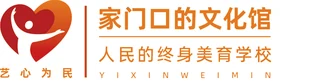
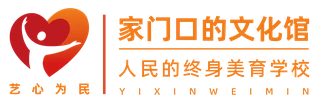
Refresh Yixin identity artwork and complete matching design notes

diff --git a/src/data/projectImages.js b/src/data/projectImages.js
@@ -1,3 +1,5 @@
+import yixin_colors_320 from '../assets/projects/yixin-colors-320.webp'
+import yixin_colors_960 from '../assets/projects/yixin-colors-960.webp'
 import shoumo_cover_320 from '../assets/projects/shoumo-cover-320.webp'
 import shoumo_cover_960 from '../assets/projects/shoumo-cover-960.webp'
 import shen_cover_320 from '../assets/projects/shen-cover-320.webp'
@@ -163,16 +165,17 @@ import kunlun_print_320 from '../assets/projects/kunlun-print-320.webp'
 import kunlun_print_960 from '../assets/projects/kunlun-print-960.webp'
 
 export const projectImages = {
+  'yixin-colors': { whiteSurface: true, caption: "标准色彩", captionEn: "Brand color palette", width: 1064, height: 515, note: "标准色彩延续主标志的红橙暖调。橙色呼应暖阳与活力，红色传递艺术的温度与人文关怀，深红强化稳重的品牌识别；通过同一色系的呼应，让社区宣传、印刷物料与空间应用保持温暖、亲和的整体感。", noteEn: "The palette extends the warm red-orange tones of the main mark. Orange suggests sunlight and vitality, red conveys warmth and care, and deep red gives the identity visual weight. Together, they connect community communications, printed materials and spatial applications.", thumb: yixin_colors_320, medium: yixin_colors_960 },
   'shoumo-cover': { caption: '守墨非遗海报效果展示', captionEn: 'Shoumo heritage poster presentation', width: 6000, height: 4000, thumb: shoumo_cover_320, medium: shoumo_cover_960 },
   'shen-cover': { caption: '《慎》系列海报效果展示', captionEn: 'Shen poster series presentation', width: 4000, height: 3000, thumb: shen_cover_320, medium: shen_cover_960 },
-  'yixin-identity': { caption: "品牌主标志", captionEn: "Primary brand identity", width: 1040, height: 388, thumb: yixin_identity_320, medium: yixin_identity_960 },
-  'yixin-construction': { caption: "标志标准制图", captionEn: "Logo construction grid", width: 1326, height: 640, thumb: yixin_construction_320, medium: yixin_construction_960 },
-  'yixin-inspiration': { caption: "双心、人形与暖阳意象", captionEn: "Hearts, human gesture and warm light", width: 1416, height: 369, thumb: yixin_inspiration_320, medium: yixin_inspiration_960 },
-  'yixin-secondary': { caption: "辅助标志", captionEn: "Secondary identity", width: 960, height: 253, thumb: yixin_secondary_320, medium: yixin_secondary_960 },
-  'yixin-lockups': { caption: "辅助标志与反白应用", captionEn: "Secondary and reversed identities", width: 961, height: 450, thumb: yixin_lockups_320, medium: yixin_lockups_960 },
-  'yixin-pattern-hearts': { caption: "双心连续纹样", captionEn: "Repeating heart pattern", width: 961, height: 633, thumb: yixin_pattern_hearts_320, medium: yixin_pattern_hearts_960 },
-  'yixin-pattern-geometry': { caption: "几何重构纹样", captionEn: "Geometric pattern", width: 961, height: 637, thumb: yixin_pattern_geometry_320, medium: yixin_pattern_geometry_960 },
-  'yixin-pattern-lines': { caption: "舒展曲线纹样", captionEn: "Flowing line pattern", width: 961, height: 633, thumb: yixin_pattern_lines_320, medium: yixin_pattern_lines_960 },
+  'yixin-identity': { whiteSurface: true, caption: "品牌主标志", captionEn: "Primary brand identity", width: 3508, height: 2480, note: "本标志为济南市文化馆群众文艺普及项目的品牌视觉设计，紧扣“艺心为民”理念，传递文艺服务下沉社区、直达百姓家门口的项目内涵。图形融合泉城地域意象与群众文艺特征，以亲和简约的造型呈现公益培训、文艺普及的服务职能；温润明快的色调兼顾严谨感与大众亲和力，适配社区宣传、物料印刷和新媒体传播。", noteEn: "Created for Jinan Cultural Center’s public arts education program, the mark expresses the idea of bringing arts services into local communities. A simple, approachable form connects Jinan’s local identity with public arts participation, while warm colors support a consistent presence in community communications, print and digital media.", thumb: yixin_identity_320, medium: yixin_identity_960 },
+  'yixin-construction': { whiteSurface: true, caption: "标志标准制图", captionEn: "Logo construction grid", width: 1616, height: 996, note: "以 A 为基本单位建立标准网格，统一标志图形、分隔线与中英文字的比例和位置关系。图示整体宽 26A、高 10A，图形部分宽 11.5A、右侧文字区宽 11A，为不同尺寸和应用载体中的规范使用提供依据。", noteEn: "A modular grid based on unit A defines the proportions and positions of the symbol, divider and bilingual lettering. The diagram specifies an overall width of 26A and height of 10A, with an 11.5A symbol area and an 11A lettering area, supporting consistent reproduction at different scales.", thumb: yixin_construction_320, medium: yixin_construction_960 },
+  'yixin-inspiration': { whiteSurface: true, caption: "双心、人形与暖阳意象", captionEn: "Hearts, human gesture and warm light", width: 2117, height: 811, note: "双心意象：红橙渐变的爱心呼应“心”字，象征艺术的温度与人文关怀，传递温暖、包容的情感基调。\n\n舒展人形：简约的白色人形融入爱心轮廓，舒展的手臂代表“艺”的表达，体现艺术服务大众、贴近人民的理念。\n\n土地与暖阳：红橙渐变取自土地与暖阳，根植泉城本土，呼应公共文化普惠大众、艺术贴近人民、文化浸润人心的项目主旨。", noteEn: "Hearts: the red-orange heart forms echo the idea of care, expressing warmth, inclusiveness and the human value of the arts.\n\nHuman gesture: a simple white figure is integrated into the heart. Its open arms suggest artistic expression and an arts service that welcomes everyone.\n\nLand and sunlight: warm red-orange tones draw on the land and sun, connecting the identity to Jinan and the program’s commitment to accessible public culture.", thumb: yixin_inspiration_320, medium: yixin_inspiration_960 },
+  'yixin-secondary': { whiteSurface: true, caption: "辅助标志", captionEn: "Secondary identity", width: 2679, height: 873, note: "辅助标志保留主标志中的爱心与人形核心元素，简化线条，延续红橙暖调，并加强“家门口的文化馆”“人民的终身美育学校”等文字信息，丰富视觉系统，强化“艺心为民”文化惠民的品牌内涵。", noteEn: "The secondary mark retains the heart and human figure, simplifies the lines and continues the warm palette. The expanded lettering emphasizes a cultural center close to home and lifelong arts education, strengthening the program’s public-service identity.", thumb: yixin_secondary_320, medium: yixin_secondary_960 },
+  'yixin-lockups': { whiteSurface: true, caption: "辅助标志与反白应用", captionEn: "Secondary and reversed identities", width: 1047, height: 535, note: "围绕“艺心为民”与“家门口的文化馆”两种文字组合，分别呈现橙色与深色背景上的反白应用。核心图形保持红橙暖调，文字和分隔线以白色形成清晰对比，使不同背景中的标志延续统一、亲和的识别。", noteEn: "Two lettering arrangements are shown on orange and dark backgrounds. The core symbol keeps its warm red-orange colors, while white lettering and dividers maintain clear contrast and a consistent, approachable identity.", thumb: yixin_lockups_320, medium: yixin_lockups_960 },
+  'yixin-pattern-hearts': { caption: "双心连续纹样", captionEn: "Repeating heart pattern", width: 961, height: 633, note: "提取主标志的双心元素，以规整图案重复阵列，延续红橙配色，象征文化普惠、万众同心；可延展至展板、文创与宣传物料。", noteEn: "A regular repeat of the paired-heart motif continues the red-orange palette, suggesting shared participation and cultural access. It extends to display boards, merchandise and communications.", thumb: yixin_pattern_hearts_320, medium: yixin_pattern_hearts_960 },
+  'yixin-pattern-geometry': { caption: "几何重构纹样", captionEn: "Geometric pattern", width: 961, height: 637, note: "将爱心拆解为圆形与半圆等几何形态，解构重组并保留品牌色彩体系，在延续核心识别的同时增添秩序感与现代感。", noteEn: "Hearts are deconstructed into circles and semicircles, then recomposed within the brand palette. The pattern preserves the core identity while introducing order and a contemporary rhythm.", thumb: yixin_pattern_geometry_320, medium: yixin_pattern_geometry_960 },
+  'yixin-pattern-lines': { caption: "舒展曲线纹样", captionEn: "Flowing line pattern", width: 961, height: 633, note: "采用柔和曲线模拟舒展开放的姿态，呼应主标识中的人形，寓意文化包容、向外延伸，为不同载体提供更轻盈、灵活的图形语言。", noteEn: "Soft curves suggest an open, expansive gesture and echo the figure in the main mark. They express cultural inclusiveness and create a lighter, flexible graphic language for different applications.", thumb: yixin_pattern_lines_320, medium: yixin_pattern_lines_960 },
   'yixin-cap': { caption: "棒球帽设计", captionEn: "Baseball cap", width: 1115, height: 697, note: "32 支斜纹涤棉 · 18 × 25 × 11.5 cm", noteEn: "Cotton-polyester twill · 18 × 25 × 11.5 cm", thumb: yixin_cap_320, medium: yixin_cap_960 },
   'yixin-badge': { caption: "烤漆胸章", captionEn: "Enamel badge", width: 1110, height: 697, note: "锌合金 · 5 × 5 × 0.5 cm", noteEn: "Zinc alloy · 5 × 5 × 0.5 cm", thumb: yixin_badge_320, medium: yixin_badge_960 },
   'yixin-polo': { caption: "POLO 文化衫", captionEn: "Polo shirt", width: 1115, height: 691, note: "32 支 65/35 涤棉斜纹面料，260 g/㎡ · 成人均码", noteEn: "65/35 cotton-polyester twill, 260 g/m² · Adult one-size", thumb: yixin_polo_320, medium: yixin_polo_960 },

diff --git a/src/components/DesignCollection.jsx b/src/components/DesignCollection.jsx
@@ -24,7 +24,7 @@ export default function DesignCollection({ lang, filter, setFilter, navigate }) 
             <a className="work-preview-link" id={`project-link-${project.id}`} data-project-link href={`#/works/${project.id}`} onClick={event => navigate(`works/${project.id}`, event)} aria-label={`${t.viewProject} · ${title}`}>
               <div className={`work-cover ${coverImages.length ? 'has-artwork' : 'has-typography'}`} data-protected-image>
                 {coverImages.length ? <div className="work-cover-artworks" style={{ '--preview-count': coverImages.length }}>
-                  {coverImages.map(image => <img key={image.thumb} src={image.thumb} srcSet={`${image.thumb} 320w, ${image.medium} ${Math.min(image.width, 960)}w`} sizes={coverImages.length === 1 ? '(max-width: 767px) 280px, (max-width: 1099px) 360px, 480px' : '(max-width: 767px) 120px, (max-width: 1099px) 190px, 240px'} width={image.width} height={image.height} loading="lazy" decoding="async" draggable="false" alt="" />)}
+                  {coverImages.map(image => <img className={image.whiteSurface ? 'is-white-surface' : undefined} key={image.thumb} src={image.thumb} srcSet={`${image.thumb} 320w, ${image.medium} ${Math.min(image.width, 960)}w`} sizes={coverImages.length === 1 ? '(max-width: 767px) 280px, (max-width: 1099px) 360px, 480px' : '(max-width: 767px) 120px, (max-width: 1099px) 190px, 240px'} width={image.width} height={image.height} loading="lazy" decoding="async" draggable="false" alt="" />)}
                 </div> : <div className="work-type-cover" aria-hidden="true"><span className="cover-discipline">{en ? project.tagEn : project.tag}</span><span className="cover-name">{en ? project.coverTitleEn : project.coverTitle}</span><span className="cover-rule" /></div>}
                 <span className="work-cover-marker" aria-hidden="true">{String(projects.indexOf(project) + 1).padStart(2, '0')}</span>
                 <span className="work-cover-count">{coverImages.length ? t.imageCount.replace('{count}', project.images.length) : t.projectRecord}</span>

diff --git a/src/data/yixin.js b/src/data/yixin.js
@@ -7,10 +7,10 @@ export const yixinCaseStudy = {
   ],
   sections: [
     {
-      id: 'identity', title: '品牌识别', titleEn: 'Brand identity', leadImage: 'yixin-identity',
-      text: '以“艺心为民”为核心，将红橙双心与舒展的人形融为一体，传递艺术的温度、包容与关怀。结合泉城地域意象建立标准制图、辅助标志和反白应用，让公共文化服务在不同场景中保持统一、亲和的识别。',
-      textEn: 'Red-orange hearts and an open human gesture express the warmth, inclusiveness and care of public arts services. Drawing on Jinan’s local identity, the construction grid, secondary marks and reversed versions create a consistent, approachable system across different settings.',
-      images: ['yixin-identity', 'yixin-construction', 'yixin-inspiration', 'yixin-secondary', 'yixin-lockups'],
+      id: 'identity', title: '品牌识别', titleEn: 'Brand identity', leadImage: 'yixin-identity', wideImages: ['yixin-lockups'],
+      text: '以“艺心为民”为核心，将红橙双心与舒展的人形融为一体，传递艺术的温度、包容与关怀。结合泉城地域意象建立标准制图、标准色彩、辅助标志和反白应用，让公共文化服务在不同场景中保持统一、亲和的识别。',
+      textEn: 'Red-orange hearts and an open human gesture express the warmth, inclusiveness and care of public arts services. Drawing on Jinan’s local identity, the construction grid, color palette, secondary marks and reversed versions create a consistent, approachable system across different settings.',
+      images: ['yixin-identity', 'yixin-construction', 'yixin-inspiration', 'yixin-colors', 'yixin-secondary', 'yixin-lockups'],
     },
     {
       id: 'patterns', title: '辅助图形', titleEn: 'Graphic language', columns: 3,

diff --git a/src/components/ProjectCaseStudy.jsx b/src/components/ProjectCaseStudy.jsx
@@ -10,7 +10,7 @@ export default function ProjectCaseStudy({ project, lang }) {
     const index = project.images.indexOf(key)
     const caption = en ? image.captionEn : image.caption
     const sizes = image.edgeToEdge ? '(max-width: 767px) calc(100vw - 56px), (max-width: 1232px) calc(100vw - 112px), 1120px' : lead ? '(max-width: 767px) 280px, (max-width: 1099px) calc(100vw - 112px), 960px' : reading ? '(max-width: 767px) 280px, (max-width: 1099px) 400px, 360px' : '(max-width: 767px) 280px, (max-width: 1099px) 400px, 520px'
-    return <figure className={'project-artwork book-artwork' + (lead ? ' is-lead' : '') + (image.naturalRatio ? ' is-natural-ratio' : '') + (image.edgeToEdge ? ' is-edge-to-edge' : '')} key={key} data-protected-image>
+    return <figure className={'project-artwork book-artwork' + (lead ? ' is-lead' : '') + (image.naturalRatio ? ' is-natural-ratio' : '') + (image.edgeToEdge ? ' is-edge-to-edge' : '') + (image.whiteSurface ? ' is-white-surface' : '')} key={key} data-protected-image>
       <div className="project-artwork-surface"><img src={image.medium} srcSet={`${image.thumb} 320w, ${image.medium} 960w`} sizes={sizes} width={image.width} height={image.height} alt={`${title} · ${caption}`} draggable="false" loading={index === 0 ? 'eager' : 'lazy'} decoding="async" /></div>
       <figcaption><span>{caption}</span><span>{String(index + 1).padStart(2, '0')} / {project.images.length}</span></figcaption>
       {image.note && <p className="artwork-note">{en ? image.noteEn : image.note}</p>}

diff --git a/src/styles.css b/src/styles.css
@@ -446,6 +446,9 @@ img { -webkit-user-drag: none; -webkit-touch-callout: none; user-select: none; }
 .artwork-note { margin-top: 9px; max-width: 65ch; font-size: 11px; line-height: 1.8; color: var(--muted); }
 .identity-case-study .book-project-hero { width: min(900px, 100%); margin-inline: auto; }
 .identity-case-study .is-media .project-artwork-surface { aspect-ratio: 3 / 4; }
+.book-artwork.is-white-surface .project-artwork-surface, .work-cover-artworks img.is-white-surface { background: #fff; }
+.identity-case-study .artwork-note { font-size: 12px; line-height: 1.95; white-space: pre-line; }
+.identity-case-study .book-project-hero .artwork-note { max-width: 760px; }
 @media (max-width: 1099px) and (min-width: 768px) {
   .work-cover { --cover-inset: 28px; }
   .cover-name { font-size: 28px; }

diff --git a/README.md b/README.md
@@ -61,7 +61,7 @@ src/
 
 原有介绍、奖项、项目和肖像均保留；按用户要求删除项目说明中的“已落地”、获奖行开头的级别标签及页脚返回主页、源码链接。主页移除顶部专业标签和底部导览行，常用软件位于作品按钮上方。教育页使用两张学历卡片与官方校徽，校园图片已移除，素材原始文件仅在本地保留于 `src/assets/school/originals/`。来源记录见该目录 `SOURCES.md`。
 
-获奖电脑双栏按左栏从上到下、再右栏从上到下阅读，手机与平板仍为单列。设计分类依据 `content.js` 的 `categories` 筛选：全部 8 项、海报 2 项、主视觉 2 项、品牌 2 项、书籍 1 项、其他 1 项。艺心为民仅归入品牌设计。六项作品包含 79 张真实图片，另两项按已提供的名称和说明展示。摄影仍为分类索引。联系邮箱为 `2906282327@qq.com`。
+获奖电脑双栏按左栏从上到下、再右栏从上到下阅读，手机与平板仍为单列。设计分类依据 `content.js` 的 `categories` 筛选：全部 8 项、海报 2 项、主视觉 2 项、品牌 2 项、书籍 1 项、其他 1 项。艺心为民仅归入品牌设计。六项作品包含 80 张真实图片，另两项按已提供的名称和说明展示。摄影仍为分类索引。联系邮箱为 `2906282327@qq.com`。
 
 作品的稳定 ID、类别与中英文内容统一维护于 `content.js`，图片映射位于 `projectImages.js`，界面文字位于 `translations.js`。分类使用稳定 ID，不依赖数组位置。
 
@@ -143,7 +143,7 @@ src/
 
 `#/works/yixin` 用源 AI 中拆出的三十二张独立图片替换旧五张整版展板，分为品牌识别、辅助图形、品牌应用、实景应用、媒体记录和社区反馈。主标志作为新封面，设计说明仍为一段；尺寸、材质与社区说明使用网页文字，中英文对应。项目仍仅属于品牌设计。
 
-`src/data/yixin.js` 维护图文分组；`ProjectCaseStudy.jsx` 同时支持书籍与品牌案例。桌面双／三列、平板双列、手机单列限宽，媒体报道使用竖向展示比例。书籍仍使用原图，内页六张保持直角与轻微阴影；末两项顺序不变。当前八项作品、七十九张图片，原 AI 和临时渲染不发布。
+`src/data/yixin.js` 维护图文分组；`ProjectCaseStudy.jsx` 同时支持书籍与品牌案例。桌面双／三列、平板双列、手机单列限宽，媒体报道使用竖向展示比例。书籍仍使用原图，内页六张保持直角与轻微阴影；末两项顺序不变。当前八项作品、八十张图片，原 AI 和临时渲染不发布。
 
 联系邮箱为 `2906282327@qq.com`，联系区采用浅色背景和深色文字，在深色主题下同样保持浅色。
 
@@ -152,3 +152,5 @@ src/
 入口组件 `SiteAccess.jsx` 验证输入后才加载作品集 App，解锁状态仅保存在当前标签页的 sessionStorage；输入错误显示提示，浏览器存储不可用时当前页面仍可解锁。密码摘要在该组件内维护。深链接解锁后保留原目标。
 
 此功能是 GitHub Pages 上的前端门禁，不是服务器身份验证。仓库、静态资源和图片链接仍公开，不能据此保存保密内容；需要真正的访问权限控制时应迁移到支持服务端验证的托管。
+
+艺心为民基础系统已按用户提供的六张PNG更新（含新增标准色彩），共33张图；六项基础图与三款辅助纹样补齐逐图中英文说明。透明图片在深浅色主题下均使用白色展示底面。

diff --git a/src/assets/projects/SOURCES.md b/src/assets/projects/SOURCES.md
@@ -221,3 +221,20 @@ ISRC CN-E26-26-00004         ISBN 978-7-7988-0553-6
 ## 2026-10-24 守墨非遗样机
 
 用户指定 `/Users/dingruomu/Downloads/守墨非遗样机.png`，6000×4000。新增 `shoumo-cover` 320×213／960×640 WebP，保持完整构图、背景、光影与人物，不裁切或重绘；原PNG不发布。用作列表唯一封面和详情第一张，原四张海报保留。
+
+## 2026-10-24 艺心为民基础系统替换与逐图说明
+
+六张 PNG 均由用户在本次指定，完整构图、透明通道及图中文字保留，仅生成320／960px WebP，不裁切、不重绘。五项替换原对应资产，标准色彩为补充的新项。
+
+| 图片键 | 用户原图（Downloads） | 原始尺寸 |
+| --- | --- | --- |
+| yixin-identity | 艺心为民标志logo应用版.png | 3508 × 2480 |
+| yixin-construction | 艺心为民网格.png | 1616 × 996 |
+| yixin-inspiration | 组合构成.png | 2117 × 811 |
+| yixin-colors | 标准色彩.png | 1064 × 515 |
+| yixin-secondary | 家门口的文化馆源文件910.png | 2679 × 873 |
+| yixin-lockups | 颜色和反白.png | 1047 × 535 |
+
+补齐六项基础系统及三款辅助图形的中英文说明。文字对照 `/Users/dingruomu/Desktop/艺心为民/艺心为民全国赛展板.ai` 第2画板的设计理念、标准制图、灵感来源及辅助图形系统，并与本次图片核对。网格尺寸26A／10A／11.5A／11A直接据制图标注；辅助标志与反白说明同时依据新图片的两组文字及背景配色。色彩说明根据原文土地、暖阳与红橙渐变理念及图示色系整理。
+
+源AI与新色彩图均将三条色带重复标为 KE XIAO QI ORANGE 1、同一组CMYK/RGB数值，数值与实际色带不符。按原图替换保留图片本身，网页说明不将这些重复标签／数值转录为规范，不自行推定新的CMYK。六图透明区域使用网页白色底面，保证深色主题下图中文字可读；原PNG与AI不发布。

diff --git a/DESIGN_QA.md b/DESIGN_QA.md
@@ -316,3 +316,12 @@
 ### 2026-10-24 守墨非遗封面与首图
 
 列表单张样机预览、计数5张，点击进入详情；样机位于01／05，后续湖笔、徽墨、宣纸、端砚四张保留。390px无横向溢出，首图contain与draggable=false，控制台无警告或错误。生产构建与diff检查通过。截图：`portfolio-shoumo-new-cover.png`。
+
+## 2026-10-24 艺心为民基础系统替换与说明
+
+- 对照AI第2画板核对设计理念、制图尺寸、三项灵感、辅助标志与三款纹样说明；五图对应替换，补一张标准色彩，六项均有中英文逐图说明。源图重复的英文色名和CMYK/RGB保留于图片，不作为网页新增的规范值。
+- 电脑浏览器查看六张图正确加载、完整contain；深色主题下六个透明图片展示框为白色，文字及网格清楚，图片容器均直角。反白组合占整行，其他应用图不变。
+- 1024／768／390／320px均为33张图片、23组图片说明，无横向溢出。320px英文深色模式同样通过。列表封面同步使用新主标志，显示33张，品牌分类及其他项目顺序保持。
+- 五项导航测试、生产构建及diff检查通过，无新增依赖；控制台无警告或错误。响应式验证使用桌面浏览器，未在物理iOS设备测试。
+
+截图：`portfolio-yixin-grid-and-inspiration-notes.png`、`portfolio-yixin-palette-and-secondary.png`、`portfolio-yixin-reversed-applications.png`。
